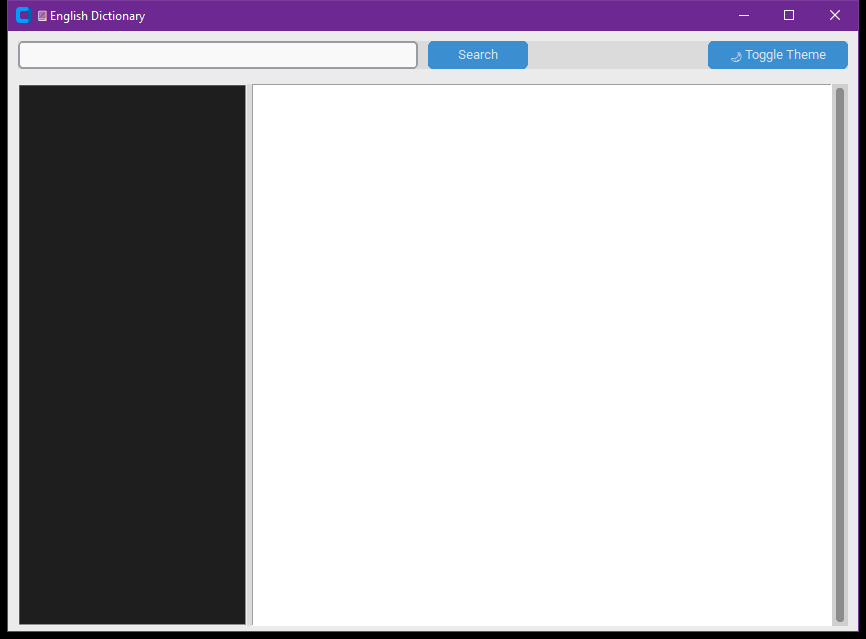
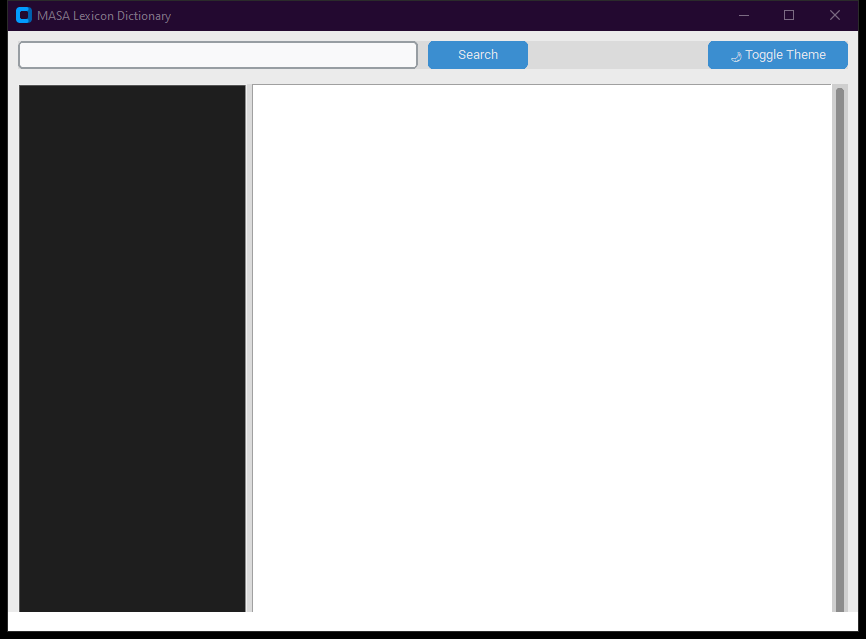
refactor: apply MASA window branding, strip comments and format code style

Changed region(s): [[0.0, 0.0, 0.9977, 0.0595], [0.0, 0.9515, 0.3118, 0.9812], [0.9353, 0.9515, 0.9977, 0.9812]]

diff --git a/English Dictionary App Using Tkinter in Python/main.py b/English Dictionary App Using Tkinter in Python/main.py
@@ -9,24 +9,23 @@ import requests
 import json
 import os
 
-# ---------------- SETTINGS ----------------
-ctk.set_appearance_mode("Light")  # Light or Dark
+ctk.set_appearance_mode("Light")
 ctk.set_default_color_theme("blue")
 
 CACHE_FILE = "dictionary_cache.json"
 
-# ---------------- CACHE ----------------
 if os.path.exists(CACHE_FILE):
     with open(CACHE_FILE, "r") as f:
         cache = json.load(f)
 else:
     cache = {}
 
+
 def save_cache():
     with open(CACHE_FILE, "w") as f:
         json.dump(cache, f, indent=4)
 
-# ---------------- SEARCH & DISPLAY ----------------
+
 def search_word(word=None):
     output.config(state="normal")
     output.delete("1.0", "end")
@@ -58,6 +57,7 @@ def search_word(word=None):
         output.insert("end", "Network error.")
         output.config(state="disabled")
 
+
 def display_data(data):
     output.config(state="normal")
     word = data["word"]
@@ -66,13 +66,11 @@ def display_data(data):
     output.insert("end", f"{word.upper()}\n", "title")
     output.insert("end", f"Pronunciation: {phonetic}\n\n", "subtitle")
 
-    # Meanings + definitions + synonyms + antonyms
     for meaning in data.get("meanings", []):
         output.insert("end", f"{meaning.get('partOfSpeech','')}\n", "subtitle")
         for idx, d in enumerate(meaning.get("definitions", []), 1):
             output.insert("end", f"{idx}. {d.get('definition','')}\n")
 
-            # Synonyms
             synonyms = d.get("synonyms", [])
             if synonyms:
                 output.insert("end", "   Synonyms: ")
@@ -85,7 +83,6 @@ def display_data(data):
                     output.tag_bind(s, "<Button-1>", lambda e, w=s: search_word(w))
                 output.insert("end", "\n")
 
-            # Antonyms
             antonyms = d.get("antonyms", [])
             if antonyms:
                 output.insert("end", "   Antonyms: ")
@@ -100,7 +97,7 @@ def display_data(data):
         output.insert("end", "\n")
     output.config(state="disabled")
 
-# ---------------- AUTOSUGGEST ----------------
+
 def auto_suggest(event):
     typed = entry.get().lower()
     suggestions.delete(0, "end")
@@ -110,6 +107,7 @@ def auto_suggest(event):
         if word.startswith(typed):
             suggestions.insert("end", word)
 
+
 def select_suggestion(event):
     if not suggestions.curselection():
         return
@@ -118,66 +116,49 @@ def select_suggestion(event):
     entry.insert(0, selected)
     search_word(selected)
 
-# ---------------- GUI ----------------
+
 app = ctk.CTk()
-app.title("📘 English Dictionary")
+app.title("MASA Lexicon Dictionary")
 app.geometry("850x600")
 
-# Top Frame for search
 top_frame = ctk.CTkFrame(app)
 top_frame.pack(fill="x", padx=10, pady=10)
 
 entry = ctk.CTkEntry(top_frame, width=400, font=("Arial", 16))
-entry.pack(side="left", padx=(0,10))
+entry.pack(side="left", padx=(0, 10))
 entry.bind("<KeyRelease>", auto_suggest)
 
 ctk.CTkButton(top_frame, text="Search", command=search_word, width=100).pack(side="left")
 ctk.CTkButton(
-    top_frame, text="🌙 Toggle Theme",
-    command=lambda: ctk.set_appearance_mode(
-        "Dark" if ctk.get_appearance_mode() == "Light" else "Light")
+    top_frame,
+    text="🌙 Toggle Theme",
+    command=lambda: ctk.set_appearance_mode("Dark" if ctk.get_appearance_mode() == "Light" else "Light"),
 ).pack(side="right")
 
-# Main Frame
 main_frame = ctk.CTkFrame(app)
 main_frame.pack(fill="both", expand=True, padx=10, pady=5)
 
-# Suggestions Listbox
 suggestions = tk.Listbox(
-    main_frame,
-    height=15,
-    font=("Arial", 12),
-    bg="#1e1e1e",
-    fg="white",
-    selectbackground="#3b82f6",
-    width=25
+    main_frame, height=15, font=("Arial", 12), bg="#1e1e1e", fg="white", selectbackground="#3b82f6", width=25
 )
-suggestions.pack(side="left", fill="y", padx=(0,5))
+suggestions.pack(side="left", fill="y", padx=(0, 5))
 suggestions.bind("<<ListboxSelect>>", select_suggestion)
 
-# Output Textbox with Scrollbar
 output_frame = ctk.CTkFrame(main_frame)
 output_frame.pack(side="left", fill="both", expand=True)
 
 output_scroll = ctk.CTkScrollbar(output_frame, orientation="vertical")
 output_scroll.pack(side="right", fill="y")
 
-output = tk.Text(
-    output_frame,
-    wrap="word",
-    font=("Arial", 14),
-    yscrollcommand=output_scroll.set
-)
+output = tk.Text(output_frame, wrap="word", font=("Arial", 14), yscrollcommand=output_scroll.set)
 output.pack(fill="both", expand=True)
 output_scroll.configure(command=output.yview)
 output.config(state="disabled")
 
-# Tag styles
 output.tag_config("title", font=("Arial", 20, "bold"), foreground="#3b82f6")
 output.tag_config("subtitle", font=("Arial", 14, "bold"), foreground="#555555")
 
-# Search history
 history = tk.Listbox(main_frame, height=15, font=("Arial", 12))
-history.pack(side="right", fill="y", padx=(5,0))
+history.pack(side="right", fill="y", padx=(5, 0))
 
 app.mainloop()
